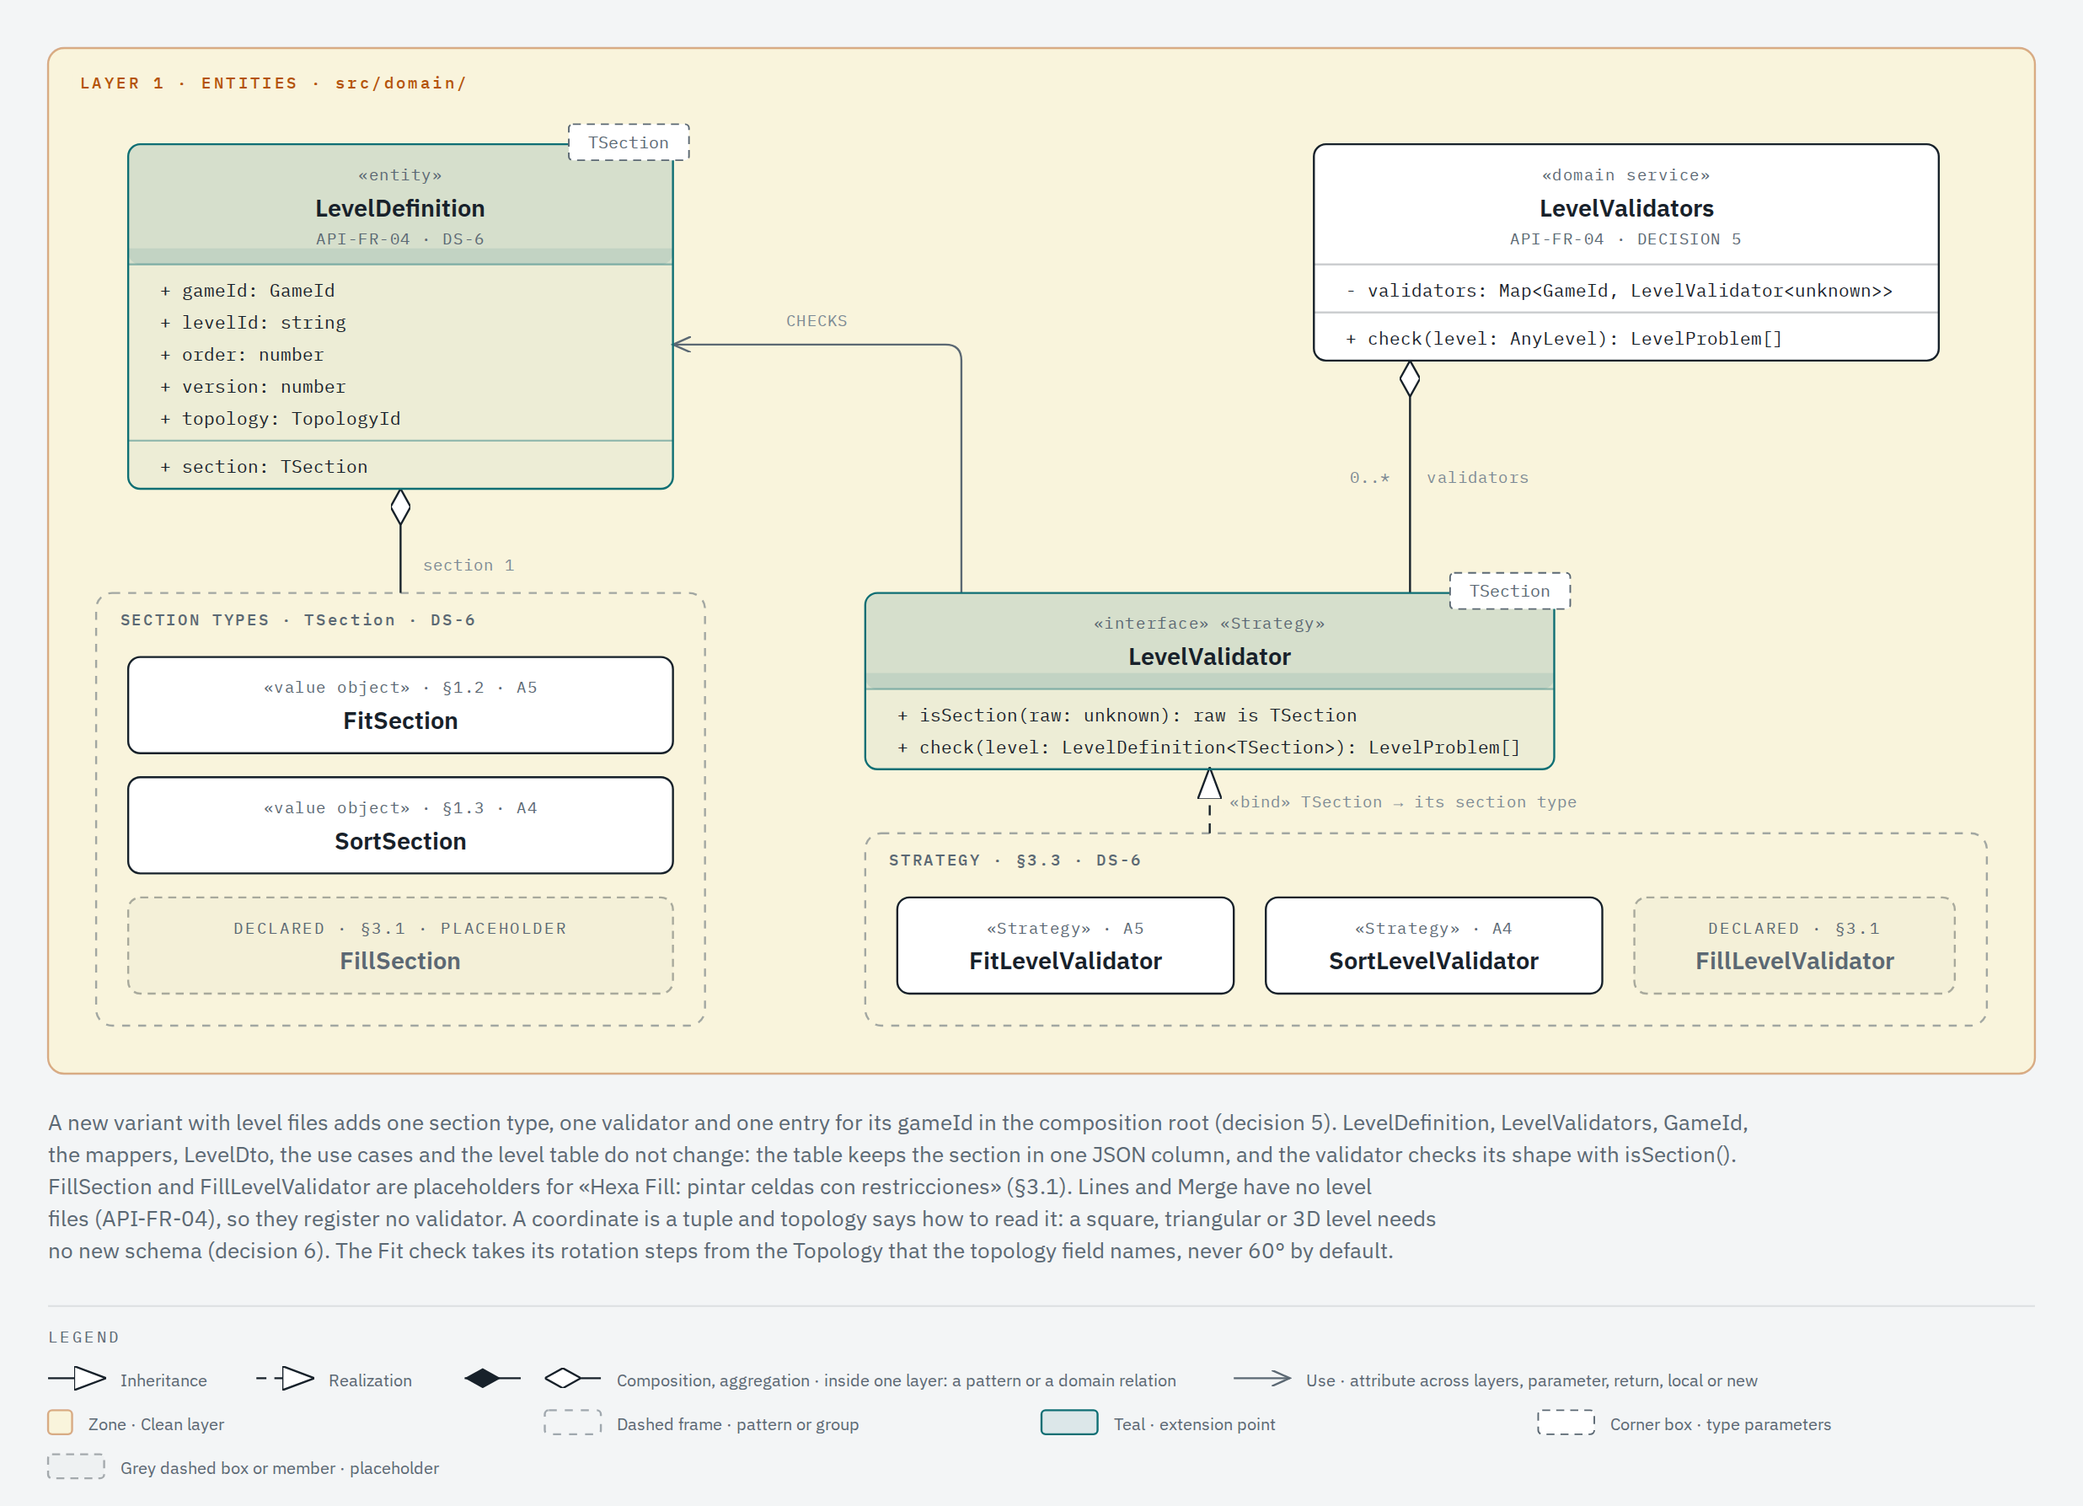
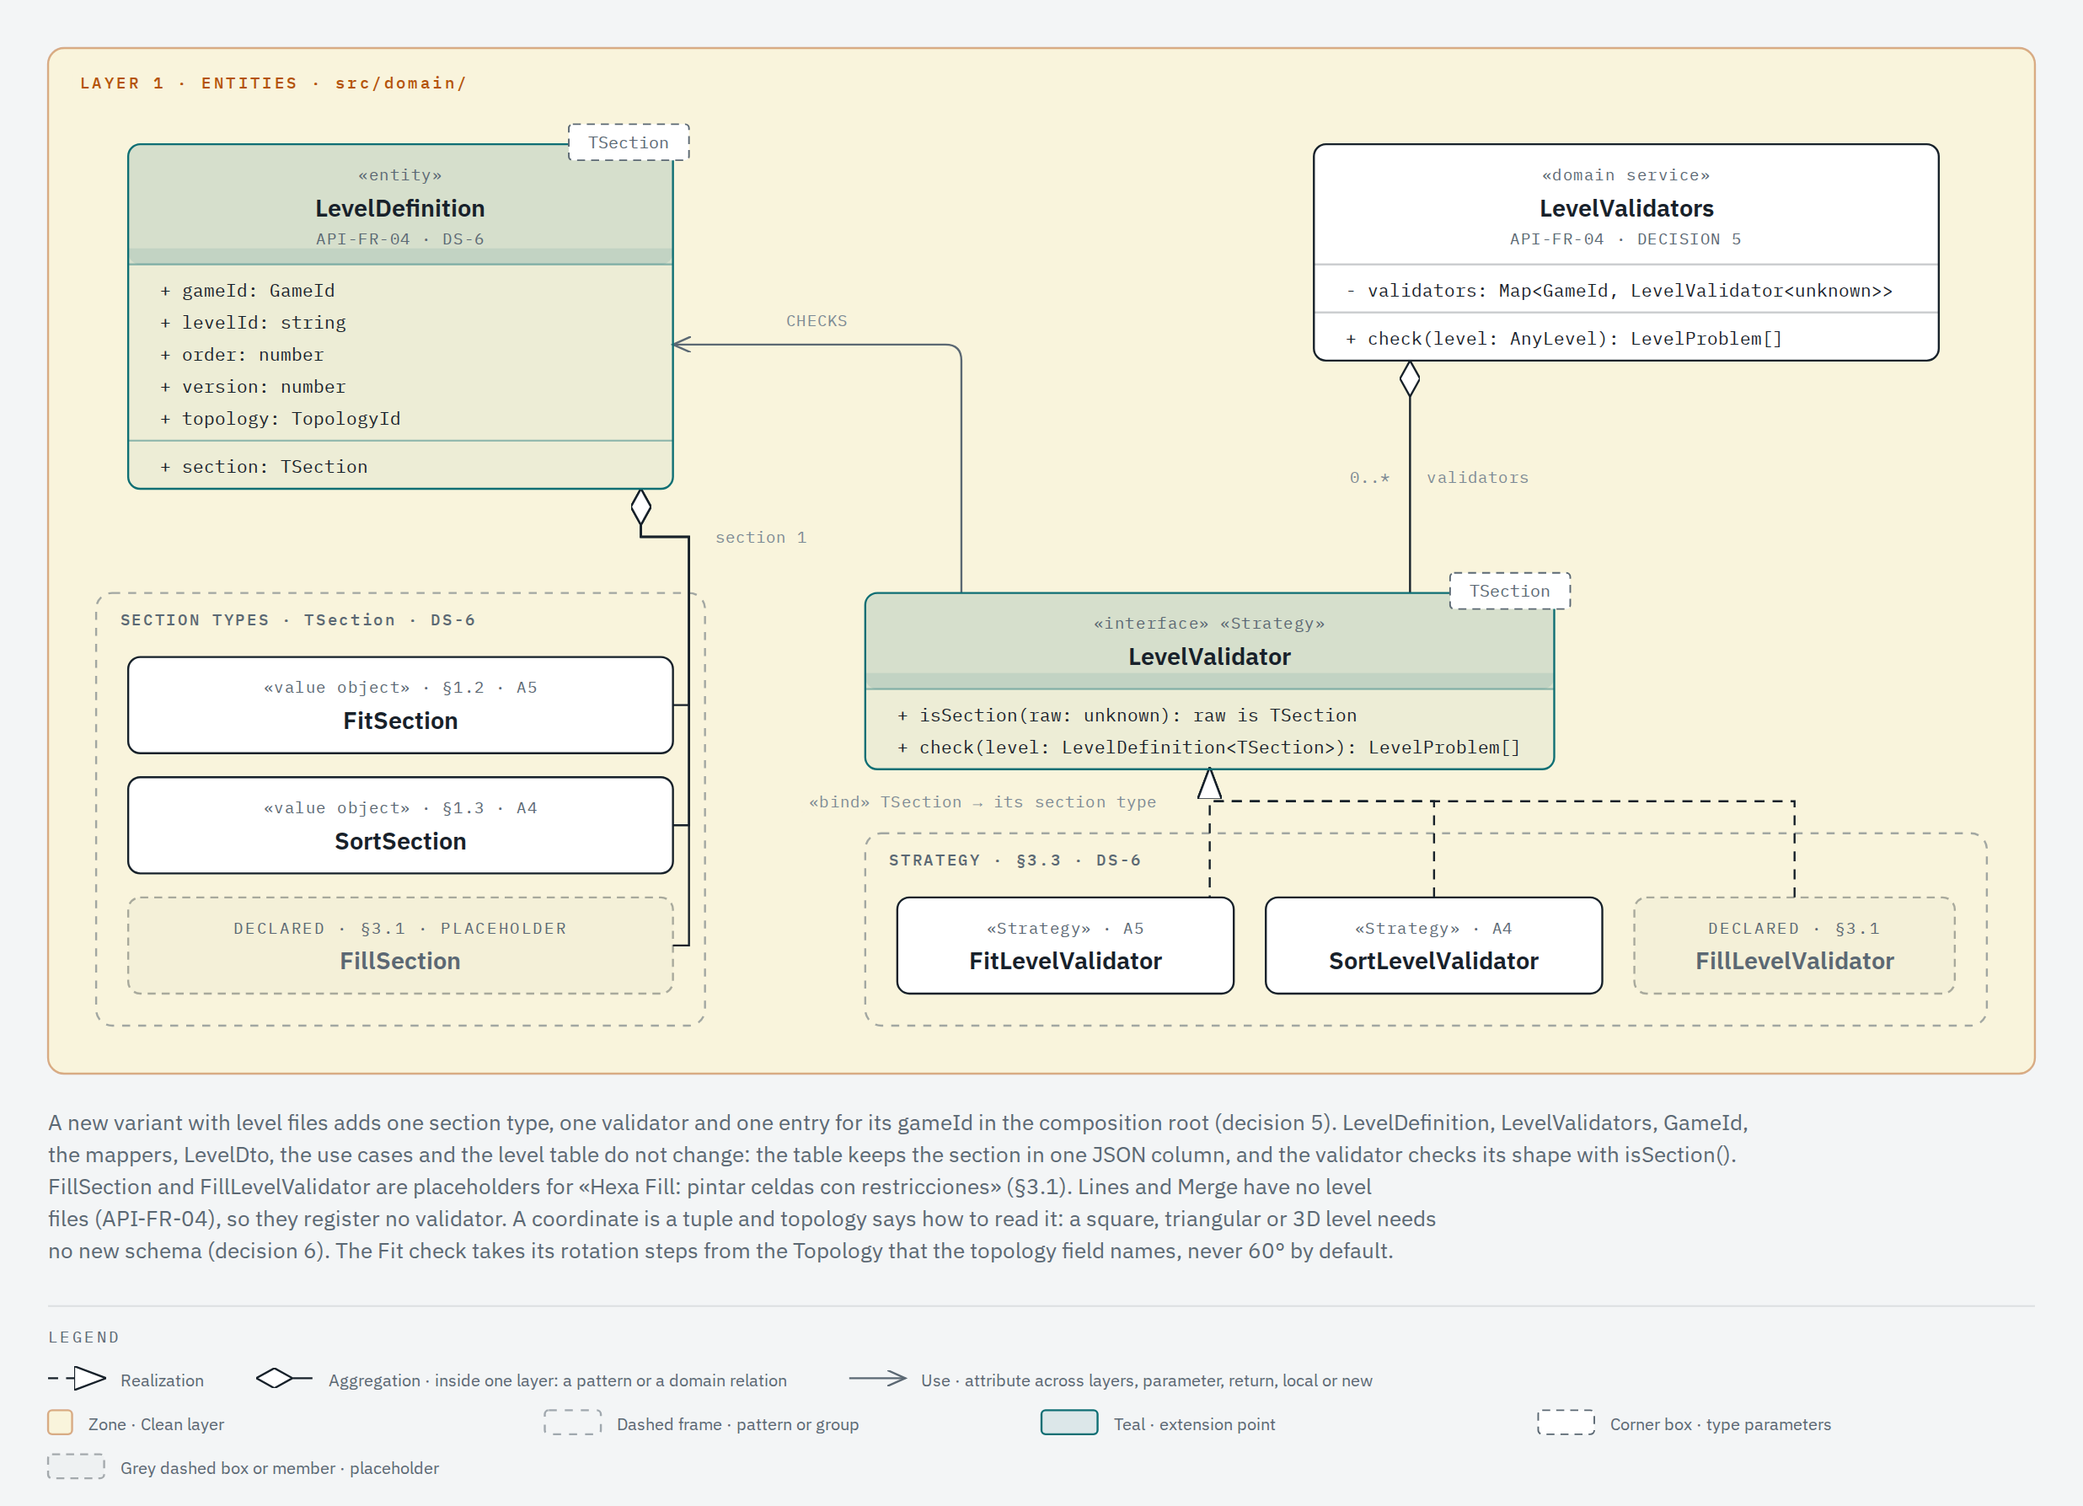
docs(architecture): join extensibility frames only with use arrows
Realization and diamond lines in the extensibility views now start and
end on class boxes. Each driver, the aspect base class, each database
adapter, each section type and each validator gets its own line, and the
lines join into one arrowhead. Each legend lists only the line kinds
that its view draws.

diff --git a/docs/architecture/extensibility/views/ext-2-new-variant.html b/docs/architecture/extensibility/views/ext-2-new-variant.html
@@ -184,9 +184,26 @@
           STRATEGY · §3.3 · DS-6
         </text>
         <!-- Relationships (drawn before boxes) -->
-        <!-- LevelDefinition receives section: TSection: aggregation -->
+        <!-- LevelDefinition receives section: TSection: aggregation, one line per section type box -->
+        <!-- LevelDefinition holds section: FitSection -->
         <path
-          d="M200 244 L200 296"
+          d="M320 244 L320 268 L344 268 L344 352 L336 352"
+          fill="none"
+          stroke-width="1"
+          stroke="#17212a"
+          marker-start="url(#ext2variant-diamond-hollow)"
+        />
+        <!-- LevelDefinition holds section: SortSection -->
+        <path
+          d="M320 244 L320 268 L344 268 L344 412 L336 412"
+          fill="none"
+          stroke-width="1"
+          stroke="#17212a"
+          marker-start="url(#ext2variant-diamond-hollow)"
+        />
+        <!-- LevelDefinition holds section: FillSection -->
+        <path
+          d="M320 244 L320 268 L344 268 L344 472 L336 472"
           fill="none"
           stroke-width="1"
           stroke="#17212a"
@@ -208,9 +225,29 @@
           stroke="#17212a"
           marker-start="url(#ext2variant-diamond-hollow)"
         />
-        <!-- Each validator implements LevelValidator for its section: realization -->
+        <!-- Each validator implements LevelValidator for its section: realization, one line per validator box. The dash offset aligns the dashes where the lines join. -->
+        <!-- FitLevelValidator implements LevelValidator -->
         <path
-          d="M604 416 L604 384"
+          d="M604 448 L604 384"
+          fill="none"
+          stroke-width="1"
+          stroke="#17212a"
+          stroke-dasharray="5,4"
+          stroke-dashoffset="4"
+          marker-end="url(#ext2variant-triangle)"
+        />
+        <!-- SortLevelValidator implements LevelValidator -->
+        <path
+          d="M716 448 L716 400 L604 400 L604 384"
+          fill="none"
+          stroke-width="1"
+          stroke="#17212a"
+          stroke-dasharray="5,4"
+          marker-end="url(#ext2variant-triangle)"
+        />
+        <!-- FillLevelValidator implements LevelValidator -->
+        <path
+          d="M896 448 L896 400 L604 400 L604 384"
           fill="none"
           stroke-width="1"
           stroke="#17212a"
@@ -218,10 +255,10 @@
           marker-end="url(#ext2variant-triangle)"
         />
         <!-- Arrow labels -->
-        <rect x="204" y="276" width="60" height="12" rx="2" fill="#f9f4dc" />
+        <rect x="350" y="262" width="60" height="12" rx="2" fill="#f9f4dc" />
         <text
-          x="234"
-          y="285"
+          x="380"
+          y="271"
           fill="#7d8a94"
           font-size="8"
           font-family="'IBM Plex Mono', monospace"
@@ -266,9 +303,9 @@
         >
           0..*
         </text>
-        <rect x="610" y="394" width="176" height="12" rx="2" fill="#f9f4dc" />
+        <rect x="400" y="394" width="184" height="12" rx="2" fill="#f9f4dc" />
         <text
-          x="614"
+          x="404"
           y="403"
           fill="#7d8a94"
           font-size="8"
@@ -763,6 +800,7 @@
           y2="688"
           stroke="#17212a"
           stroke-width="1"
+          stroke-dasharray="5,4"
           marker-end="url(#ext2variant-triangle)"
         />
         <text
@@ -772,7 +810,7 @@
           font-size="8.5"
           font-family="'IBM Plex Sans', sans-serif"
         >
-          Inheritance
+          Realization
         </text>
         <line
           x1="128"
@@ -781,8 +819,7 @@
           y2="688"
           stroke="#17212a"
           stroke-width="1"
-          stroke-dasharray="5,4"
-          marker-end="url(#ext2variant-triangle)"
+          marker-start="url(#ext2variant-diamond-hollow)"
         />
         <text
           x="164"
@@ -791,46 +828,19 @@
           font-size="8.5"
           font-family="'IBM Plex Sans', sans-serif"
         >
-          Realization
+          Aggregation · inside one layer: a pattern or a domain relation
         </text>
         <line
-          x1="232"
+          x1="424"
           y1="688"
-          x2="260"
-          y2="688"
-          stroke="#17212a"
-          stroke-width="1"
-          marker-start="url(#ext2variant-diamond-filled)"
-        />
-        <line
-          x1="272"
-          y1="688"
-          x2="300"
-          y2="688"
-          stroke="#17212a"
-          stroke-width="1"
-          marker-start="url(#ext2variant-diamond-hollow)"
-        />
-        <text
-          x="308"
-          y="692"
-          fill="#5b6873"
-          font-size="8.5"
-          font-family="'IBM Plex Sans', sans-serif"
-        >
-          Composition, aggregation · inside one layer: a pattern or a domain relation
-        </text>
-        <line
-          x1="616"
-          y1="688"
-          x2="644"
+          x2="452"
           y2="688"
           stroke="#5b6873"
           stroke-width="1"
           marker-end="url(#ext2variant-open)"
         />
         <text
-          x="652"
+          x="460"
           y="692"
           fill="#5b6873"
           font-size="8.5"

diff --git a/docs/architecture/extensibility/views/ext-1-overview.html b/docs/architecture/extensibility/views/ext-1-overview.html
@@ -290,25 +290,56 @@
         />
         <!-- UseCaseAspect implements UseCase and wraps an inner one: realization -->
         <path
-          d="M728 156 L728 508 Q728 516 720 516 L656 516"
+          d="M592 136 L592 146 L728 146 L728 508 Q728 516 720 516 L656 516"
           fill="none"
           stroke-width="1"
           stroke="#17212a"
           stroke-dasharray="5,4"
           marker-end="url(#ext1overview-triangle)"
         />
-        <!-- Drivers implement the driver ports: realization -->
+        <!-- Drivers implement the driver ports: realization, one line per driver box. The dash offset aligns the dashes where the lines join. -->
+        <!-- SystemClock implements Clock -->
         <path
-          d="M336 156 L336 552 Q336 560 328 560 L180 560 Q172 560 172 568 L172 632"
+          d="M120 136 L120 146 L336 146 L336 552 Q336 560 328 560 L180 560 Q172 560 172 568 L172 632"
           fill="none"
           stroke-width="1"
           stroke="#17212a"
           stroke-dasharray="5,4"
           marker-end="url(#ext1overview-triangle)"
         />
-        <!-- Database adapters implement the output ports: realization -->
+        <!-- ScryptPasswordHasher implements PasswordHasher -->
         <path
-          d="M868 376 L868 632"
+          d="M336 136 L336 146 L336 552 Q336 560 328 560 L180 560 Q172 560 172 568 L172 632"
+          fill="none"
+          stroke-width="1"
+          stroke="#17212a"
+          stroke-dasharray="5,4"
+          marker-end="url(#ext1overview-triangle)"
+        />
+        <!-- JwtTokenIssuer implements TokenIssuer -->
+        <path
+          d="M416 136 L416 146 L336 146 L336 552 Q336 560 328 560 L180 560 Q172 560 172 568 L172 632"
+          fill="none"
+          stroke-width="1"
+          stroke="#17212a"
+          stroke-dasharray="5,4"
+          stroke-dashoffset="1"
+          marker-end="url(#ext1overview-triangle)"
+        />
+        <!-- Database adapters implement the output ports: realization, one line per adapter box. The dash offset aligns the dashes where the lines join. -->
+        <!-- Drizzle repositories implement the output ports -->
+        <path
+          d="M976 276 L984 276 L984 368 L868 368 L868 632"
+          fill="none"
+          stroke-width="1"
+          stroke="#17212a"
+          stroke-dasharray="5,4"
+          stroke-dashoffset="8"
+          marker-end="url(#ext1overview-triangle)"
+        />
+        <!-- MongoDB repositories would implement the same ports -->
+        <path
+          d="M868 360 L868 632"
           fill="none"
           stroke-width="1"
           stroke="#17212a"
@@ -1415,6 +1446,7 @@
           y2="1144"
           stroke="#17212a"
           stroke-width="1"
+          stroke-dasharray="5,4"
           marker-end="url(#ext1overview-triangle)"
         />
         <text
@@ -1424,65 +1456,19 @@
           font-size="8.5"
           font-family="'IBM Plex Sans', sans-serif"
         >
-          Inheritance
+          Realization
         </text>
         <line
           x1="128"
           y1="1144"
           x2="156"
           y2="1144"
-          stroke="#17212a"
-          stroke-width="1"
-          stroke-dasharray="5,4"
-          marker-end="url(#ext1overview-triangle)"
-        />
-        <text
-          x="164"
-          y="1148"
-          fill="#5b6873"
-          font-size="8.5"
-          font-family="'IBM Plex Sans', sans-serif"
-        >
-          Realization
-        </text>
-        <line
-          x1="232"
-          y1="1144"
-          x2="260"
-          y2="1144"
-          stroke="#17212a"
-          stroke-width="1"
-          marker-start="url(#ext1overview-diamond-filled)"
-        />
-        <line
-          x1="272"
-          y1="1144"
-          x2="300"
-          y2="1144"
-          stroke="#17212a"
-          stroke-width="1"
-          marker-start="url(#ext1overview-diamond-hollow)"
-        />
-        <text
-          x="308"
-          y="1148"
-          fill="#5b6873"
-          font-size="8.5"
-          font-family="'IBM Plex Sans', sans-serif"
-        >
-          Composition, aggregation · inside one layer: a pattern or a domain relation
-        </text>
-        <line
-          x1="616"
-          y1="1144"
-          x2="644"
-          y2="1144"
           stroke="#5b6873"
           stroke-width="1"
           marker-end="url(#ext1overview-open)"
         />
         <text
-          x="652"
+          x="164"
           y="1148"
           fill="#5b6873"
           font-size="8.5"

diff --git a/docs/architecture/extensibility/views/ext-3-database-engine.html b/docs/architecture/extensibility/views/ext-3-database-engine.html
@@ -542,6 +542,7 @@
           y2="684"
           stroke="#17212a"
           stroke-width="1"
+          stroke-dasharray="5,4"
           marker-end="url(#ext3database-triangle)"
         />
         <text
@@ -551,65 +552,19 @@
           font-size="8.5"
           font-family="'IBM Plex Sans', sans-serif"
         >
-          Inheritance
+          Realization
         </text>
         <line
           x1="128"
           y1="684"
           x2="156"
           y2="684"
-          stroke="#17212a"
-          stroke-width="1"
-          stroke-dasharray="5,4"
-          marker-end="url(#ext3database-triangle)"
-        />
-        <text
-          x="164"
-          y="688"
-          fill="#5b6873"
-          font-size="8.5"
-          font-family="'IBM Plex Sans', sans-serif"
-        >
-          Realization
-        </text>
-        <line
-          x1="232"
-          y1="684"
-          x2="260"
-          y2="684"
-          stroke="#17212a"
-          stroke-width="1"
-          marker-start="url(#ext3database-diamond-filled)"
-        />
-        <line
-          x1="272"
-          y1="684"
-          x2="300"
-          y2="684"
-          stroke="#17212a"
-          stroke-width="1"
-          marker-start="url(#ext3database-diamond-hollow)"
-        />
-        <text
-          x="308"
-          y="688"
-          fill="#5b6873"
-          font-size="8.5"
-          font-family="'IBM Plex Sans', sans-serif"
-        >
-          Composition, aggregation · inside one layer: a pattern or a domain relation
-        </text>
-        <line
-          x1="616"
-          y1="684"
-          x2="644"
-          y2="684"
           stroke="#5b6873"
           stroke-width="1"
           marker-end="url(#ext3database-open)"
         />
         <text
-          x="652"
+          x="164"
           y="688"
           fill="#5b6873"
           font-size="8.5"

diff --git a/docs/architecture/extensibility.md b/docs/architecture/extensibility.md
@@ -8,11 +8,12 @@ Statement §4 asks for an extensibility diagram with the engine in the center an
 
 - The colored zone is the Clean layer, with the colors of [layers.md](layers.md). The zones are bands, with the outer layer at the top and the inner layer at the bottom.
 - The teal class is the extension point of the view. In view 1 it is `UseCase`, the contract of the application core.
-- A dashed frame groups one extension axis or one pattern. Its label names the source, for example `DATABASE ENGINE · ADAPTER · §8`.
+- A dashed frame groups one extension axis or one pattern. Its label names the source, for example `DATABASE ENGINE · ADAPTER · §8`. Only a use arrow starts or ends on a frame, as the input adapters in view 1 hold the input ports. A realization or a diamond joins class boxes, never a frame.
 - A box with a plural name, such as `Output ports`, stands for a group. Its compartment lists the exact class names.
 - A grey dashed box is a declared extension with no class yet. Its name is a placeholder. A grey italic member is a placeholder too.
 - A white dashed box is a class that another view details, as in the class diagram.
-- A realization arrow points from an extension to the contract it implements. A `«bind»` label on it names the type that the extension gives to the type parameter. A diamond marks an attribute between two classes of one layer, where it shows a pattern or a domain relation, as `LevelValidators` holds its validators and `LevelDefinition` its section in view 2: hollow (aggregation) when the value comes from outside, filled (composition) when the class creates it. A solid line with an open arrowhead is a use: its label names the attribute across layers and its multiplicity, or a verb when the other class is only a parameter, a return value, a local variable or a `new` (class of 2026-11-02). The notation is the one of the [class diagram](classes.md), decision 13.
+- A realization arrow points from an extension class to the contract it implements. When several classes implement one contract, each class has its own dashed line, and the lines join into one arrowhead, as the drivers in view 1 and the validators in view 2 do. A `«bind»` label on it names the type that the extension gives to the type parameter. A diamond marks an attribute between two classes of one layer, where it shows a pattern or a domain relation, as `LevelValidators` holds its validators and `LevelDefinition` its section in view 2, with one line to each section type: hollow (aggregation) when the value comes from outside, filled (composition) when the class creates it. A solid line with an open arrowhead is a use: its label names the attribute across layers and its multiplicity, or a verb when the other class is only a parameter, a return value, a local variable or a `new` (class of 2026-11-02). The notation is the one of the [class diagram](classes.md), decision 13.
+- The legend of each view lists only the line kinds that the view draws.
 - When a use arrow starts or ends at a box with a plural name, its label names the role of the group and the multiplicity for one member class, for example `input ports` and `1..2`.
 
 ## View 1: the core and its extension axes
